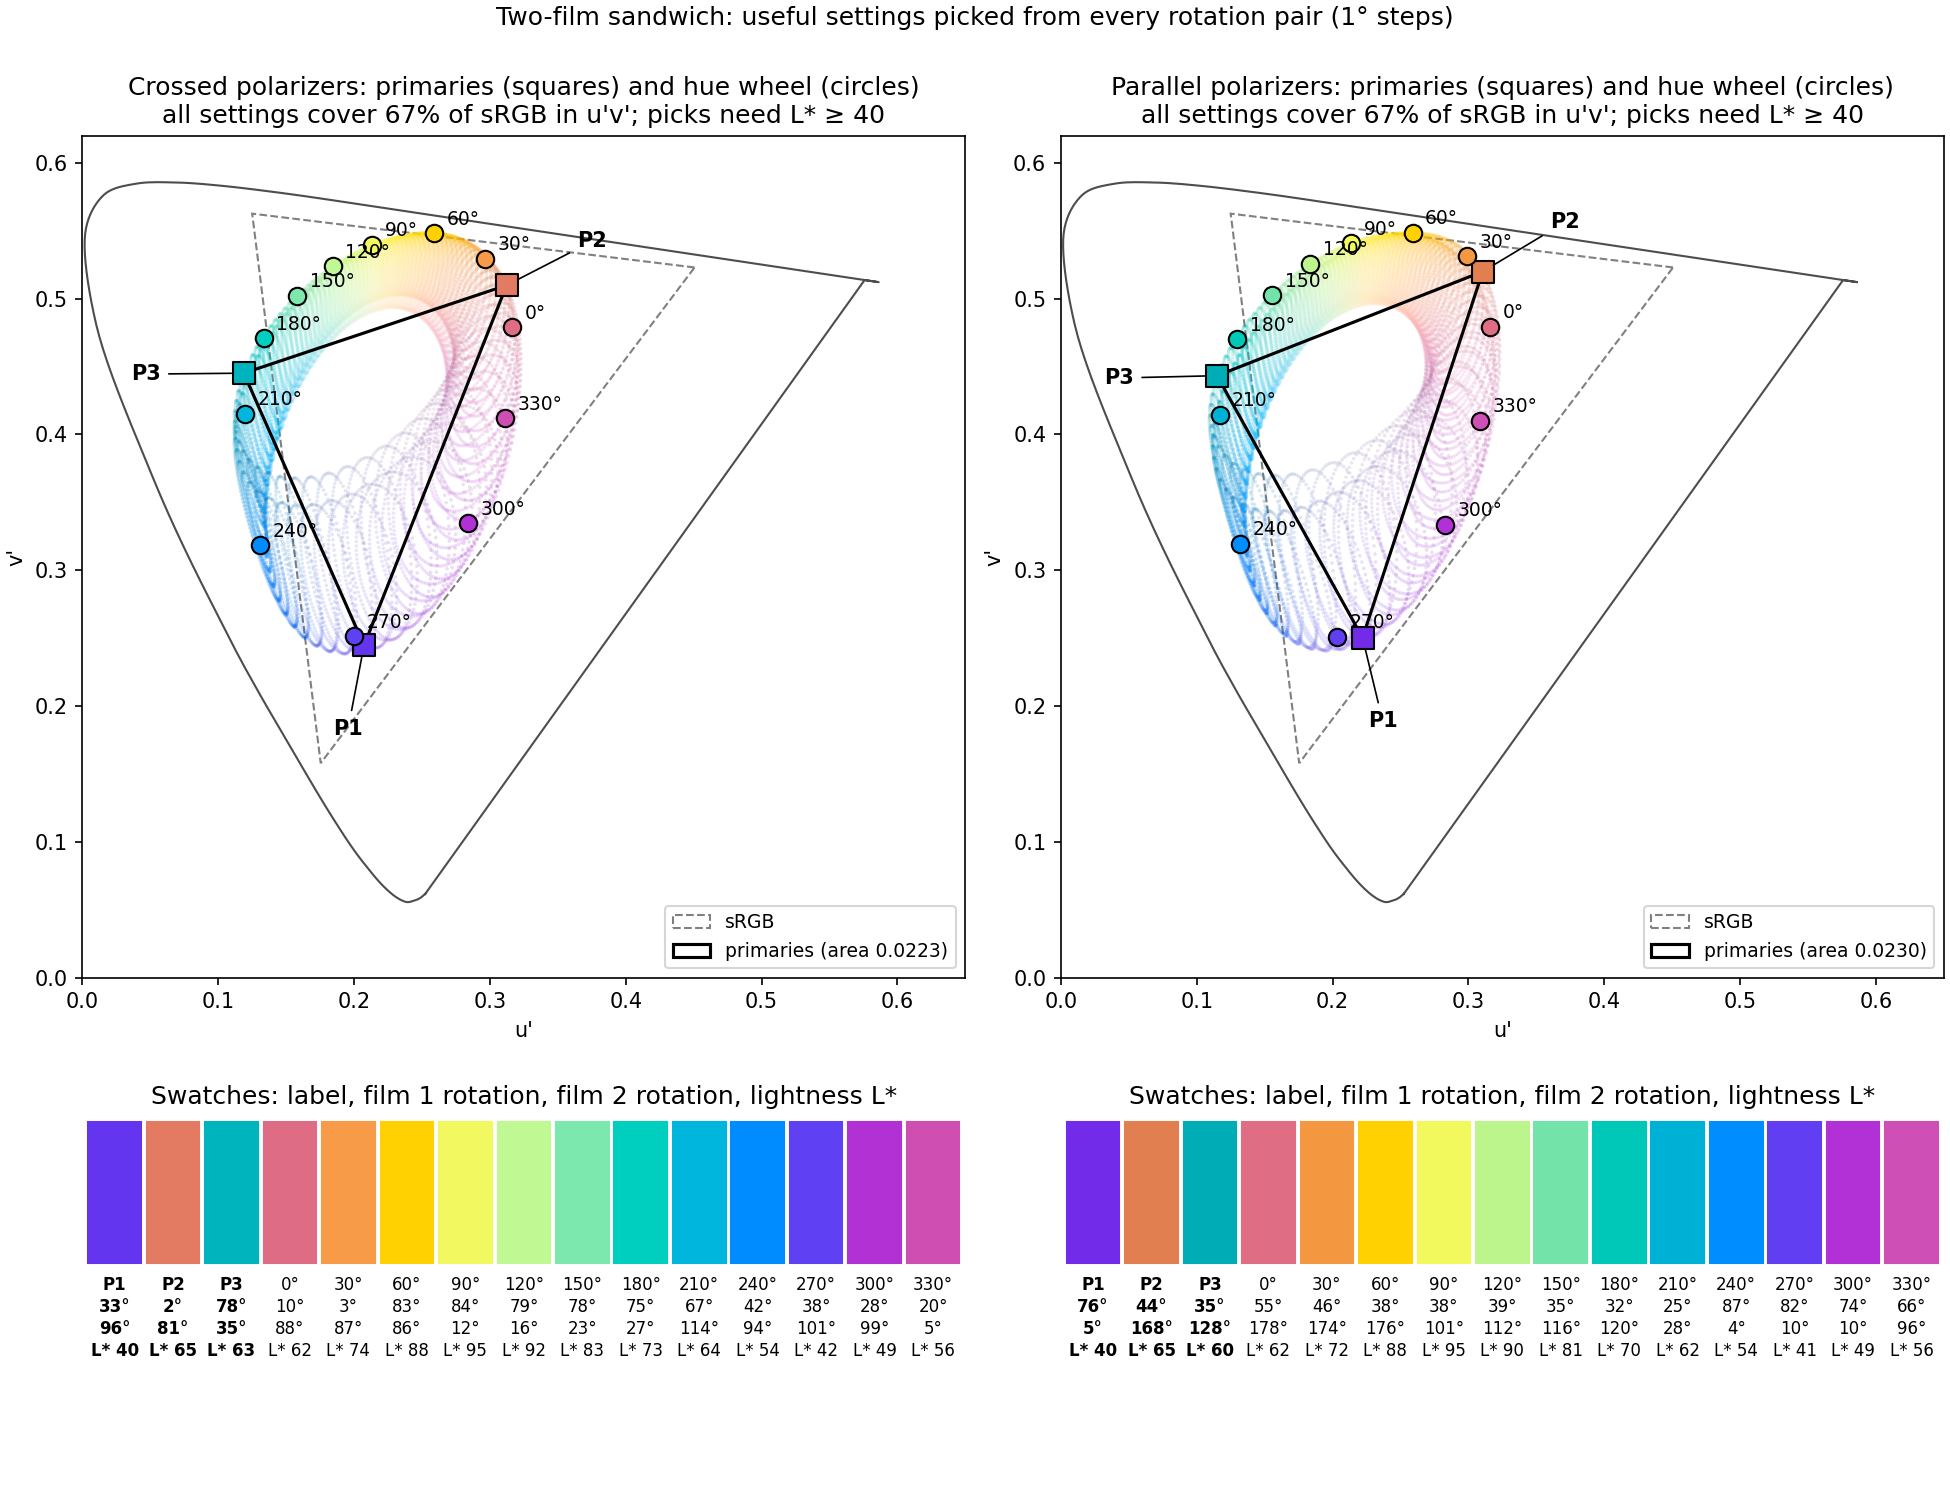
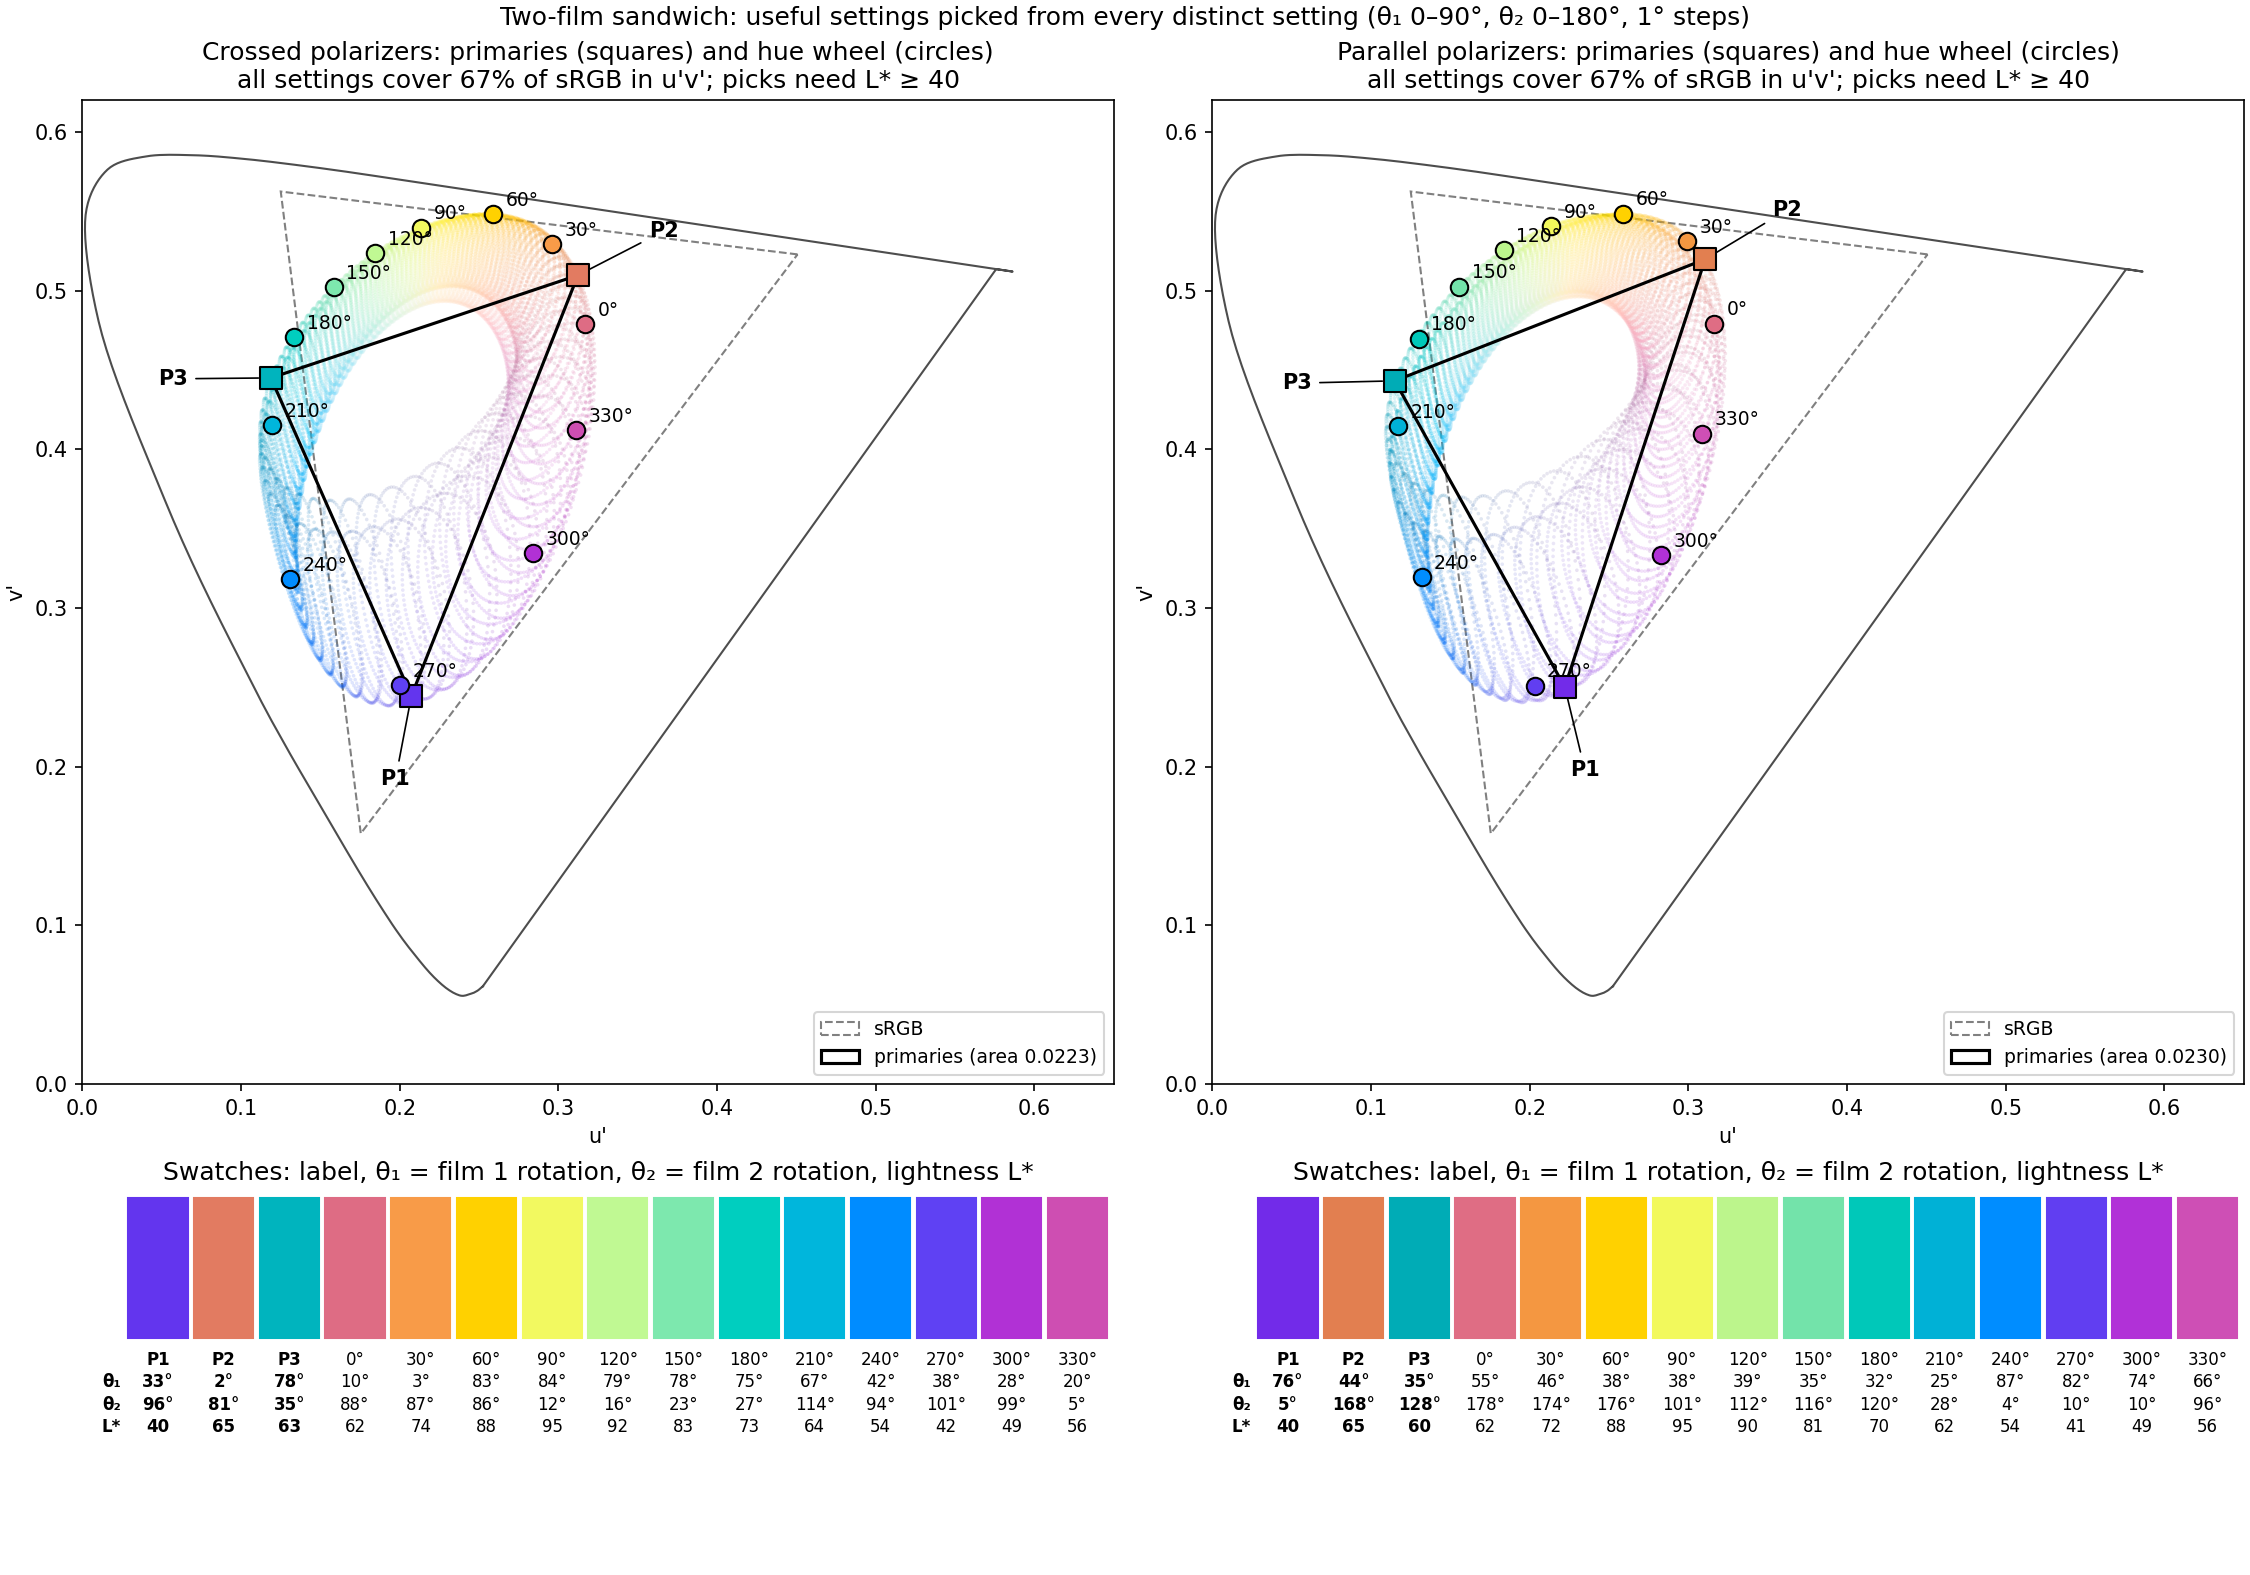
Fix/swatch angle labels (#3)
* Label swatch angles as θ₁/θ₂ and fix the color picker title

- Swatches in two_film_color_settings.png now mark each angle as
  θ₁ (film 1) or θ₂ (film 2), defined in the strip title; the figure
  is slightly wider and the text slightly smaller so 3-digit angles
  no longer overlap.
- The figure title now states the distinct range (θ₁ 0–90°,
  θ₂ 0–180°). The earlier update missed it because the file stores a
  literal degree sign.
- Settings CSV is unchanged.

* Show θ₁/θ₂ once as row labels beside the swatch strips

Instead of repeating θ₁ and θ₂ in every swatch, label the film 1 and
film 2 angle rows once, immediately left of each strip, so each swatch
shows only the numbers. Swatch text is back to size 8.

* Move L* into the swatch row labels too

The lightness row is now labeled once, left of each strip, alongside
θ₁ and θ₂, so every swatch shows only its values.

---------

diff --git a/Run_Files/WideGamut/Multi_Twist_Run_TwoFilm_ColorPicker.py b/Run_Files/WideGamut/Multi_Twist_Run_TwoFilm_ColorPicker.py
@@ -42,7 +42,7 @@ keep = np.isfinite(locus_u)
 locus_u, locus_v = locus_u[keep], locus_v[keep]
 
 rows = []
-fig, axes = plt.subplots(2, 2, figsize=(13, 10), height_ratios=[3, 1.1], layout="constrained")
+fig, axes = plt.subplots(2, 2, figsize=(15, 10.5), height_ratios=[3, 1.1], layout="constrained")
 
 for column, configuration in enumerate(["crossed", "parallel"]):
     X, Y, Z = convertMTRToXYZ(wavelengths, stokes, configuration=configuration)
@@ -105,13 +105,15 @@ for column, configuration in enumerate(["crossed", "parallel"]):
         if "_ij" in row:
             i, j = row["_ij"]
             ax.add_patch(plt.Rectangle((n, 0.45), 0.9, 0.55, color=display[i, j]))
-            text = f"{row['label']}\n{row['rotation_1_deg']:.0f}°\n{row['rotation_2_deg']:.0f}°\nL* {row['L_star']:.0f}"
+            text = f"{row['label']}\n{row['rotation_1_deg']:.0f}°\n{row['rotation_2_deg']:.0f}°\n{row['L_star']:.0f}"
         else:
             ax.add_patch(plt.Rectangle((n, 0.45), 0.9, 0.55, fill=False, hatch="///", color="0.6"))
             text = f"{row['label']}\nnot\nreachable\n"
         ax.text(n + 0.45, 0.4, text, ha="center", va="top", fontsize=8, linespacing=1.3,
                 fontweight="bold" if row["kind"] == "primary" else "normal")
-    ax.set(xlim=(-0.1, len(strip)), ylim=(-0.45, 1.02), title="Swatches: label, film 1 rotation, film 2 rotation, lightness L*")
+    # Row labels once, to the left of the strip, lined up with the film 1, film 2 and lightness rows of every swatch
+    ax.text(-0.12, 0.4, "\nθ₁\nθ₂\nL*", ha="right", va="top", fontsize=8, linespacing=1.3, fontweight="bold")
+    ax.set(xlim=(-0.7, len(strip)), ylim=(-0.45, 1.02), title="Swatches: label, θ₁ = film 1 rotation, θ₂ = film 2 rotation, lightness L*")
     ax.axis("off")
 
     print(f"\n{configuration.upper()} polarizers: primaries triangle area {primaries_area:.4f} in u'v'")
@@ -123,7 +125,7 @@ for column, configuration in enumerate(["crossed", "parallel"]):
         else:
             print(f"  {row['label']:6s} not reachable at L* >= {MIN_LIGHTNESS}")
 
-fig.suptitle("Two-film sandwich: useful settings picked from every rotation pair (1° steps)")
+fig.suptitle("Two-film sandwich: useful settings picked from every distinct setting (θ₁ 0–90°, θ₂ 0–180°, 1° steps)")
 fig.savefig("two_film_color_settings.png", dpi=150)
 
 columns = ["configuration", "kind", "label", "target_hue_deg", "rotation_1_deg", "rotation_2_deg",
